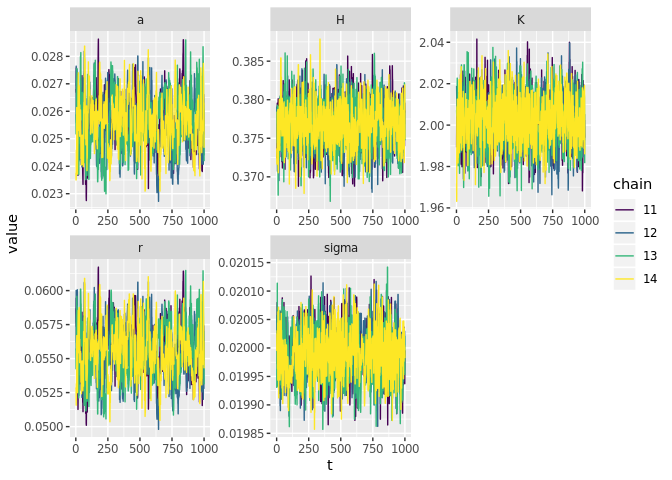
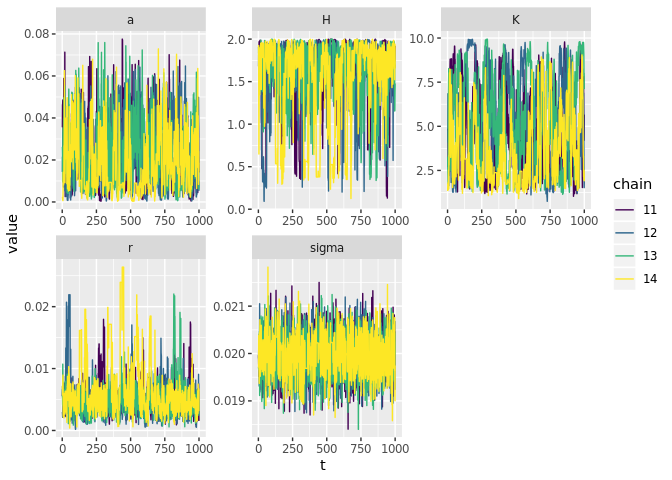
only 1st sample

diff --git a/code/greta.md b/code/greta.md
@@ -28,7 +28,7 @@ data %>% ggplot(aes(t,x, group=reps)) + geom_line(alpha=0.1)
 
 ``` r
 wide <- data %>% spread(reps, x) %>% select(-t) %>% 
-  # select(1:5) %>% # how many reps we use
+  select(1) %>% # how many reps we use
   as.matrix()
 n <- dim(wide)[1]
 ```
@@ -39,13 +39,13 @@ x_t <- wide[-n,] # data$x[-100]
 dim(x_t)
 ```
 
-    ## [1] 999 100
+    ## NULL
 
 ``` r
 dim(x_t1)
 ```
 
-    ## [1] 999 100
+    ## NULL
 
 ``` r
 #tibble(x_t, x_t1) %>% ggplot(aes(x_t, x_t1)) + geom_point()
@@ -72,100 +72,12 @@ m <- model(K, a, H, sigma, r)
 
 ``` r
 system.time({
-  draws <- mcmc(m, n_samples = 1000, warmup = 3000, chains = 4)
+  draws <- mcmc(m, n_samples = 1000, warmup = 3000, chains = 4, verbose = FALSE)
 })
 ```
 
-    ## 
-    ## running 4 chains simultaneously on up to 16 cores
-
-    ## 
-        warmup                                           0/3000 | eta:  ?s          
-        warmup =                                        50/3000 | eta:  5m          
-        warmup =                                       100/3000 | eta:  3m          
-        warmup ==                                      150/3000 | eta:  3m          
-        warmup ===                                     200/3000 | eta:  3m          
-        warmup ===                                     250/3000 | eta:  2m          
-        warmup ====                                    300/3000 | eta:  2m          
-        warmup ====                                    350/3000 | eta:  2m          
-        warmup =====                                   400/3000 | eta:  2m          
-        warmup ======                                  450/3000 | eta:  2m          
-        warmup ======                                  500/3000 | eta:  2m          
-        warmup =======                                 550/3000 | eta:  2m          
-        warmup ========                                600/3000 | eta:  2m          
-        warmup ========                                650/3000 | eta:  2m          
-        warmup =========                               700/3000 | eta:  1m          
-        warmup ==========                              750/3000 | eta:  1m          
-        warmup ==========                              800/3000 | eta:  1m          
-        warmup ===========                             850/3000 | eta:  1m          
-        warmup ===========                             900/3000 | eta:  1m          
-        warmup ============                            950/3000 | eta:  1m          
-        warmup =============                          1000/3000 | eta:  1m          
-        warmup =============                          1050/3000 | eta:  1m          
-        warmup ==============                         1100/3000 | eta:  1m          
-        warmup ===============                        1150/3000 | eta:  1m          
-        warmup ===============                        1200/3000 | eta:  1m          
-        warmup ================                       1250/3000 | eta:  1m          
-        warmup ================                       1300/3000 | eta:  1m          
-        warmup =================                      1350/3000 | eta:  1m          
-        warmup ==================                     1400/3000 | eta:  1m          
-        warmup ==================                     1450/3000 | eta:  1m          
-        warmup ===================                    1500/3000 | eta:  1m          
-        warmup ====================                   1550/3000 | eta:  1m          
-        warmup ====================                   1600/3000 | eta: 49s          
-        warmup =====================                  1650/3000 | eta: 48s          
-        warmup ======================                 1700/3000 | eta: 46s          
-        warmup ======================                 1750/3000 | eta: 44s          
-        warmup =======================                1800/3000 | eta: 42s          
-        warmup =======================                1850/3000 | eta: 40s          
-        warmup ========================               1900/3000 | eta: 39s          
-        warmup =========================              1950/3000 | eta: 37s          
-        warmup =========================              2000/3000 | eta: 35s          
-        warmup ==========================             2050/3000 | eta: 33s          
-        warmup ===========================            2100/3000 | eta: 31s          
-        warmup ===========================            2150/3000 | eta: 30s          
-        warmup ============================           2200/3000 | eta: 28s          
-        warmup ============================           2250/3000 | eta: 26s          
-        warmup =============================          2300/3000 | eta: 24s          
-        warmup ==============================         2350/3000 | eta: 23s          
-        warmup ==============================         2400/3000 | eta: 21s          
-        warmup ===============================        2450/3000 | eta: 19s          
-        warmup ================================       2500/3000 | eta: 17s          
-        warmup ================================       2550/3000 | eta: 15s          
-        warmup =================================      2600/3000 | eta: 14s          
-        warmup ==================================     2650/3000 | eta: 12s          
-        warmup ==================================     2700/3000 | eta: 10s          
-        warmup ===================================    2750/3000 | eta:  9s          
-        warmup ===================================    2800/3000 | eta:  7s          
-        warmup ====================================   2850/3000 | eta:  5s          
-        warmup =====================================  2900/3000 | eta:  3s          
-        warmup =====================================  2950/3000 | eta:  2s          
-        warmup ====================================== 3000/3000 | eta:  0s          
-    ## 
-      sampling                                           0/1000 | eta:  ?s          
-      sampling ==                                       50/1000 | eta: 35s          
-      sampling ====                                    100/1000 | eta: 41s          
-      sampling ======                                  150/1000 | eta: 32s          
-      sampling ========                                200/1000 | eta: 30s          
-      sampling ==========                              250/1000 | eta: 29s          
-      sampling ===========                             300/1000 | eta: 25s          
-      sampling =============                           350/1000 | eta: 23s          
-      sampling ===============                         400/1000 | eta: 21s          
-      sampling =================                       450/1000 | eta: 19s          
-      sampling ===================                     500/1000 | eta: 17s          
-      sampling =====================                   550/1000 | eta: 15s          
-      sampling =======================                 600/1000 | eta: 14s          
-      sampling =========================               650/1000 | eta: 12s          
-      sampling ===========================             700/1000 | eta: 10s          
-      sampling ============================            750/1000 | eta:  8s          
-      sampling ==============================          800/1000 | eta:  7s          
-      sampling ================================        850/1000 | eta:  5s          
-      sampling ==================================      900/1000 | eta:  3s          
-      sampling ====================================    950/1000 | eta:  2s          
-      sampling ====================================== 1000/1000 | eta:  0s
-
     ##    user  system elapsed 
-    ## 251.849  25.587 137.194
+    ## 214.789  21.988 103.566
 
 ``` r
 summary(draws)
@@ -180,21 +92,21 @@ summary(draws)
     ## 1. Empirical mean and standard deviation for each variable,
     ##    plus standard error of the mean:
     ## 
-    ##          Mean        SD  Naive SE Time-series SE
-    ## K     2.00235 1.157e-02 1.829e-04      3.302e-04
-    ## a     0.02562 9.317e-04 1.473e-05      5.254e-05
-    ## H     0.37667 2.896e-03 4.578e-05      9.648e-05
-    ## sigma 0.01999 4.265e-05 6.744e-07      1.263e-06
-    ## r     0.05559 1.887e-03 2.984e-05      1.167e-04
+    ##           Mean        SD  Naive SE Time-series SE
+    ## K     4.869118 2.5386307 4.014e-02      2.009e-01
+    ## a     0.021005 0.0146948 2.323e-04      7.219e-04
+    ## H     1.583137 0.4226560 6.683e-03      2.824e-02
+    ## sigma 0.019966 0.0004434 7.011e-06      8.650e-06
+    ## r     0.005456 0.0035073 5.545e-05      2.516e-04
     ## 
     ## 2. Quantiles for each variable:
     ## 
-    ##          2.5%     25%     50%     75%   97.5%
-    ## K     1.97946 1.99455 2.00242 2.01012 2.02485
-    ## a     0.02378 0.02499 0.02561 0.02625 0.02739
-    ## H     0.37098 0.37466 0.37664 0.37869 0.38223
-    ## sigma 0.01991 0.01996 0.01999 0.02002 0.02007
-    ## r     0.05193 0.05426 0.05557 0.05687 0.05923
+    ##           2.5%      25%      50%      75%   97.5%
+    ## K     1.383071 2.538553 4.480860 7.018992 9.56875
+    ## a     0.001660 0.008771 0.018252 0.030540 0.05512
+    ## H     0.390732 1.452303 1.726106 1.879763 1.99031
+    ## sigma 0.019107 0.019661 0.019965 0.020259 0.02086
+    ## r     0.001481 0.003476 0.004708 0.006285 0.01677
 
 ``` r
 #bayesplot::mcmc_trace(draws)
